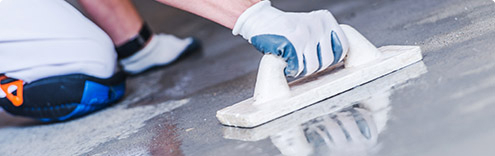
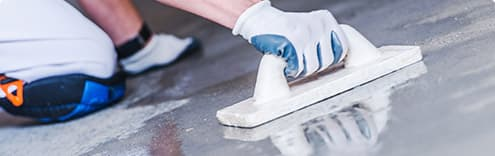
add optimazed pictures

diff --git a/index.html b/index.html
@@ -9,7 +9,7 @@
     <header>
       <nav>
         <a href=""
-          ><img src="./image/header/logo.svg" alt="logo createx" width="130"
+          ><img src="./image/logo.svg" alt="logo createx" width="130"
         /></a>
         <ul>
           <li><a href="">About Us</a></li>
@@ -71,7 +71,15 @@
           We are rightfully considered to be the best construction company in
           the USA
         </p>
-        <video src="./video/about/about-video.mp4"></video>
+        <video
+          src="./video/about/about-video.mp4"
+          poster="./image/about/poster-video-about.jpg"
+          width="1230"
+          height="500"
+          controls
+          loop
+          preload="auto"
+        ></video>
       </section>
       <section class="values">
         <h2>Our core values</h2>
@@ -339,7 +347,44 @@
           >View all news</a
         >
       </section>
+      <section>
+        <h2>Send us a message</h2>
+        <form action=""></form>
+      </section>
     </main>
-    <footer></footer>
+    <footer>
+      <div>
+        <img src="./image/logo.svg" alt="" />
+        <ul>
+          <li><img src="./image/footer/whatsapp.svg" alt="Whatsapp" /></li>
+          <li><img src="./image/footer/messanger.svg" alt="Messanger" /></li>
+          <li><img src="./image/footer/facebook.svg" alt="Facebook" /></li>
+          <li><img src="./image/footer/twitter.svg" alt="Twitter" /></li>
+          <li><img src="./image/footer/youtube.svg" alt="Youtube" /></li>
+        </ul>
+        <p>
+          Createx Construction Bureau has been successfully operating in the USA
+          construction market since 2000. We are proud to offer you quality
+          construction and exemplary service. Our mission is to set the highest
+          standards for construction sphere.
+        </p>
+        <div>
+          <h2>HEAD OFFICE</h2>
+          <address>
+            <div>
+              <span>Address:</span
+              ><span>8502 Preston Rd. Inglewood, New York</span>
+            </div>
+            <div>
+              <span>Call:</span><a href="tel:+4055550128">(405) 555-0128</a>
+            </div>
+            <div>
+              <span>Email:</span
+              ><a href="mailto:hello@createx.com">hello@createx.com</a>
+            </div>
+          </address>
+        </div>
+      </div>
+    </footer>
   </body>
 </html>
